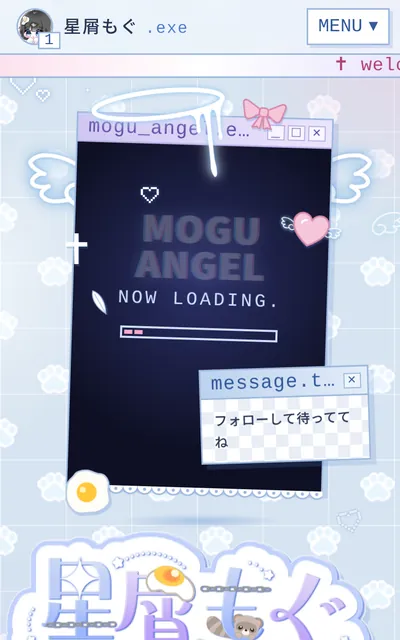
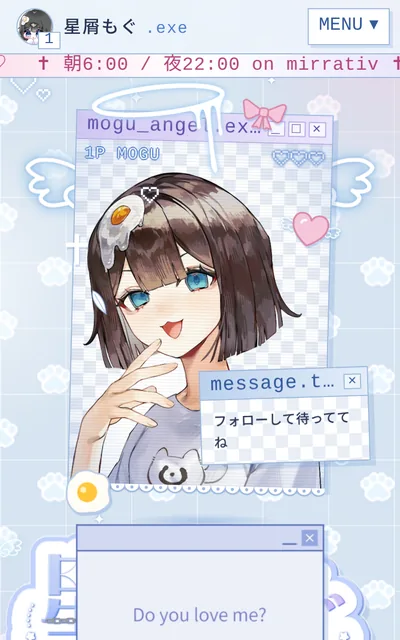
Use real site screens with characters visible in hero and cards
Claude-Session: https://claude.ai/code/session_01ErYMeAmKrCqXiEv6Jzs3We

diff --git a/index.html b/index.html
@@ -1,1 +1,1 @@
-<!doctype html><html lang="ja"><head><meta charset="utf-8"><meta name="viewport" content="width=device-width,initial-scale=1"><title>ファンが、いつでも会える場所を。 | イロハミント</title><meta name="description" content="作品紹介、メッセージ、歌リクエスト。配信者・歌い手・VTuberの活動とファンをつなぐホームページ制作。税込1,900円からの買い切りプラン。月額サポートは任意。"><meta name="theme-color" content="#315F53"><link rel="canonical" href="https://minatohiro-official.github.io/iroha-minto/"><meta property="og:type" content="website"><meta property="og:locale" content="ja_JP"><meta property="og:site_name" content="イロハミント"><meta property="og:title" content="ファンが、いつでも会える場所を。 | IROHA MINT"><meta property="og:description" content="作品紹介、メッセージ、歌リクエスト。配信者・歌い手・VTuberの活動とファンをつなぐホームページ制作。税込1,900円からの買い切りプラン。月額サポートは任意。"><meta property="og:url" content="https://minatohiro-official.github.io/iroha-minto/"><meta property="og:image" content="https://minatohiro-official.github.io/iroha-minto/assets/ogp.png"><meta property="og:image:width" content="1200"><meta property="og:image:height" content="630"><meta name="twitter:card" content="summary_large_image"><link rel="icon" href="assets/favicon.svg?v=5ed799cbb7" type="image/svg+xml"><link rel="icon" href="assets/favicon.ico?v=5ed799cbb7" sizes="any"><link rel="apple-touch-icon" href="assets/apple-touch-icon.png?v=5ed799cbb7"><link rel="stylesheet" href="assets/style.css?v=7fe357cccf"><script src="assets/app.js?v=20261111-allowances" defer></script><link rel="stylesheet" href="assets/home.css?v=f34d555bb5"></head><body class="home"><a class="skip" href="#main">本文へ移動</a><header class="header"><a class="brand" href="index.html" aria-label="イロハミント ホーム"><img src="assets/logo.svg" width="270" height="68" alt="イロハミント IROHA MINT"><span class="brand-service">ホームページ制作</span></a><button class="menu-button" type="button" aria-expanded="false" aria-controls="navigation">メニュー <span aria-hidden="true">＋</span></button><nav id="navigation" aria-label="メインナビゲーション"><a href="index.html" aria-current="page" >ホーム</a><a href="services.html" >料金・サービス</a><a href="works.html" >制作例</a><a href="contact.html" >相談・見積もり</a></nav></header><main id="main"><section class="hero"><div class="hero-copy"><p class="service-kicker">あなたの世界観を、オーダーメイドで。</p><h1>ファンが、いつでも<br>会える場所を。</h1><p class="hero-description">配信者・歌い手・VTuberの公式サイト制作。<br>色や雰囲気、載せたい内容から一緒に考えます。</p><div class="hero-showcase" role="img" aria-label="制作例。中央にしぃの部屋、左右に星屑もぐとあんて｡のスマホ画面"><div class="showcase-phone showcase-side showcase-left" aria-hidden="true"><img src="assets/hero-mogu.webp" width="400" height="640" alt="" decoding="async"><span class="showcase-phone-name">星屑もぐ</span></div><div class="showcase-phone" aria-hidden="true"><img src="assets/hero-shii.webp" width="400" height="640" alt="" fetchpriority="high" decoding="async"><span class="showcase-phone-name">しぃの部屋</span></div><div class="showcase-phone showcase-side showcase-right" aria-hidden="true"><img src="assets/hero-ante.webp" width="400" height="640" alt="" decoding="async"><span class="showcase-phone-name">あんて｡</span></div></div><div role="note" style="margin:18px 0;padding:18px 20px;border:2px solid #315f53;border-radius:16px;background:#f0f8f3;color:#234b40"><strong style="display:block;font-size:1.15rem">🎉 オープン記念価格をご案内</strong><span style="display:block;margin-top:6px">ライト 1,900円／スタンダード 4,900円／プレミアム 9,800円（税込・買い切り）</span><small style="display:block;margin-top:8px">通常価格は2,900円／7,900円／14,800円。記念価格の適用期間は正式受付時にご案内します。現在は受付準備中です。</small></div><div class="hero-actions"><a class="button primary" href="#home-plans">料金・プランを選ぶ</a><a class="button outline" href="#website-examples">制作例を見る</a></div><p class="hero-terms">管理アプリの無料特典つき。月額契約は任意です。</p></div></section><section class="section selected-works" id="website-examples"><div class="heading-row"><div class="section-heading reveal"><h2>制作したホームページ</h2><p>完成したホームページをご紹介します。ボタンから実際のホームページを開けます。</p></div></div><div class="work-grid"><article class="work-card reveal"><div class="work-image-link"><div class="work-phone"><img src="assets/phone-shii.webp" width="400" height="640" loading="lazy" decoding="async" alt="しぃの部屋の実際のトップページ。ピンクの背景にロゴとキャラクターイラストを配置。"></div></div><div class="work-card-body"><span class="eyebrow">配信者 / 公式サイト</span><h3>しぃの部屋</h3><p>ロゴとイラストを大きく配置したホームページです。配信予定、歌リクエスト、歌える曲リストなどを掲載しています。</p><ul class="work-tags"><li>ロゴ・キャラクター演出</li><li>歌える曲リスト</li><li>ファンとの交流</li></ul><a class="button primary" href="https://shii-room.github.io/" target="_blank" rel="noopener noreferrer">公開サイトを開く<span class="link-destination">別タブ</span></a><a class="case-explanation" href="works.html#shii">制作内容・スマホ表示の説明</a></div></article><article class="work-card reveal"><div class="work-image-link"><div class="work-phone"><img src="assets/phone-mogu.webp" width="400" height="640" loading="lazy" decoding="async" alt="星屑もぐの実際のトップページ。水色の背景にロゴとウィンドウ風のキャラクター枠を配置。"></div></div><div class="work-card-body"><span class="eyebrow">配信者 / 公式サイト</span><h3>星屑もぐ</h3><p>パソコンのウィンドウをイメージしたホームページです。プロフィール、配信情報、SNSへのリンクなどを掲載しています。</p><ul class="work-tags"><li>ウィンドウ風デザイン</li><li>プロフィールカード</li><li>配信・SNSへの導線</li></ul><a class="button primary" href="https://hoshikuzu-mogu.github.io/" target="_blank" rel="noopener noreferrer">公開サイトを開く<span class="link-destination">別タブ</span></a><a class="case-explanation" href="works.html#mogu">制作内容・スマホ表示の説明</a></div></article><article class="work-card reveal"><div class="work-image-link"><div class="work-phone"><img src="assets/phone-ante.webp" width="400" height="640" loading="lazy" decoding="async" alt="あんて｡の公式サイトの紹介画像"></div></div><div class="work-card-body"><span class="eyebrow">OFFICIAL STAGE</span><h3>あんて｡</h3><p>配信予定、歌える曲、リクエスト、歌ってみたをまとめた、あんて｡さんの公式サイトです。</p><a class="button primary" href="https://ante-stage.github.io/index.html" target="_blank" rel="noopener noreferrer">公開サイトを開く<span class="link-destination">別タブ</span></a><a class="case-explanation" href="works.html#ante">制作実績の紹介</a></div></article><article class="work-card reveal"><div class="work-image-link"><div class="work-phone"><img src="assets/phone-reeka.webp" width="400" height="640" loading="lazy" decoding="async" alt="偲睡れーかの公式サイトの紹介画像"></div></div><div class="work-card-body"><span class="eyebrow">研究ノート</span><h3>偲睡れーか</h3><p>「研究ノート」をテーマにした偲睡れーかさんの公式サイトです。</p><a class="button primary" href="https://shisui-reeka.github.io/index.html" target="_blank" rel="noopener noreferrer">公開サイトを開く<span class="link-destination">別タブ</span></a><a class="case-explanation" href="works.html#reeka">制作実績の紹介</a></div></article><article class="work-card reveal"><div class="work-image-link"><div class="work-phone"><img src="assets/phone-hiro.webp" width="400" height="640" loading="lazy" decoding="async" alt="湊音ヒロの実際のトップページ。青いライブ写真と名前を大きく配置。"></div></div><div class="work-card-body"><span class="eyebrow">歌い手・アーティスト / 公式サイト</span><h3>湊音ヒロ</h3><p>ライブ写真、プロフィール、楽曲・MV、ライブ情報をまとめたアーティストのホームページです。</p><ul class="work-tags"><li>ライブ写真</li><li>MV・楽曲の紹介</li><li>ファン向けの窓口</li></ul><a class="button primary" href="https://minatohiro-official.github.io/" target="_blank" rel="noopener noreferrer">公開サイトを開く<span class="link-destination">別タブ</span></a><a class="case-explanation" href="works.html#hiro">制作内容・スマホ表示の説明</a></div></article></div><p class="fine">掲載許可をいただいたサイトを紹介しています。画像は各サイトの紹介画像や制作時の画面です。各サイトの独自機能は、内容に応じて追加お見積もりとなります。</p></section><section class="section service-summary" aria-labelledby="service-title"><div class="section-heading"><h2 id="service-title">あなたの世界観に合わせて、<br>ひとつずつ作るホームページ。</h2><p>全プラン、デザインはオーダーメイド。好きな色や雰囲気、活動の内容を伺って、構成からご提案します。</p></div><div class="service-summary-grid"><article><span class="summary-number">01</span><h3>活動に合わせたデザイン</h3><p>プロフィールや作品をどう見せたいか、ファンに何を届けたいか。あなたの希望を伺い、色・文字・レイアウトを組み立てます。</p></article><article><span class="summary-number">02</span><h3>スマホ・iPad・PCに対応</h3><p>画面の大きさに合わせて、文字や画像、メニューの配置を調整します。iPadの縦持ち・横持ちにも対応できます。</p></article><article><span class="summary-number">03</span><h3>公開後の更新も相談できます</h3><p>自分で更新する管理画面や、任意の月額サポートも用意。必要な範囲を制作前に確認します。</p></article></div><p class="fine">イラストレーターの作品紹介、店舗・教室・個人事業のホームページもご相談いただけます。</p></section><section class="section brand-story" aria-labelledby="brand-story-title"><div class="section-heading"><h2 id="brand-story-title">イロハミントの想い</h2></div><p class="brand-message">あなたの好きな色や、大切にしている世界観。<br>その魅力が伝わるホームページを、一緒に作ります。</p></section><section class="section site-features" id="fan-features"><div class="section-heading"><h2>ファンとの交流に使える機能</h2><p>どんなやりとりをしたいかに合わせて、必要な機能を追加できます。</p></div><div class="site-feature-grid"><article class="site-feature"><div class="site-feature-image"><img src="assets/feature-message.webp" width="900" height="550" loading="lazy" decoding="async" alt="しぃの部屋のメッセージ受付の画面"></div><div class="site-feature-copy"><h3>メッセージ受付</h3><p>感想や質問を受け取る窓口。管理画面から、返信用の画像を作る機能も制作できます。</p><a class="button outline" href="works.html#feature-message">メッセージ機能の説明</a></div></article><article class="site-feature"><div class="site-feature-image"><img src="assets/feature-request.webp" width="900" height="479" loading="lazy" decoding="async" alt="しぃの部屋の歌リクエストの画面"></div><div class="site-feature-copy"><h3>歌リクエスト</h3><p>歌ってほしい曲を受け取るフォーム。曲名やアーティスト名、ひとことを送ってもらえます。</p><a class="button outline" href="works.html#feature-request">歌リクエスト機能の説明</a></div></article><article class="site-feature"><div class="site-feature-image"><img src="assets/feature-stamp.webp" width="445" height="479" loading="lazy" decoding="async" alt="しぃの部屋のスタンプ・特典壁紙の画面"></div><div class="site-feature-copy"><h3>スタンプ・特典壁紙</h3><p>サイトを訪れるとスタンプがたまり、達成時に壁紙を受け取れる機能です。</p><a class="button outline" href="works.html#feature-stamp">スタンプ・壁紙機能の説明</a></div></article></div><p class="fine">画面は「しぃの部屋」の公開実績です。基本の管理アプリは無料特典です。フォーム・スタンプなどの個別機能は別途お見積もり。受付方法や保存先、迷惑投稿への対策などを制作前に確認します。</p><div class="additional-features"><h3>曲リストや配信予定も載せられます</h3><div><a class="button outline" href="works.html#feature-song">歌える曲リストの説明</a><a class="button outline" href="sample-schedule.html">週間予定表の制作サンプル</a></div></div><div class="management-summary"><div><h3>管理アプリは無料特典です</h3><p>お知らせや配信予定の編集、届いたメッセージの確認など。ホームページと合わせて、必要な操作ができる管理Webアプリを制作します。</p><p class="fine">基本の管理アプリは、全プランの無料特典です。ご自身でお知らせや配信予定などを更新できます。編集できる項目は制作前に確認します。 個別の機能追加・カスタマイズ、外部サービスの実費は別途ご相談となります。月額サポートの契約は任意です。</p></div></div></section><section class="section plans-section" id="home-plans"><div class="section-heading reveal"><h2>制作料金</h2><p>制作費は買い切り。すべて税込、月額契約は任意です。</p></div><div class="plans"><article class="plan reveal "><span class="eyebrow">LIGHT</span><h3>ライト</h3><p class="plan-note">1ページのシンプルなサイト</p><p style="margin:8px 0 0;color:#64736b"><s>通常 ¥2,900</s> <strong>オープン記念価格</strong></p><p class="price"><span>¥</span>1,900<small>税込 / 買い切り</small></p><details class="plan-inclusions" open><summary>このプランに含まれる内容</summary><ul><li>1ページ / オーダーメイドデザイン</li><li>スマートフォン対応</li><li>基本SEO・OGP設定</li><li>無料ホスティングURL</li><li>標準的な歌える曲リスト対応（必要時）</li><li>基本の管理アプリ（無料特典）</li><li>初回修正3回</li><li>制作時の追加機能4種類まで無料（例：SNS連携・動画／音楽・ライブ予定・お問い合わせフォーム）</li></ul></details><a class="button outline" href="contact.html?plan=0#estimate">このプランで概算を計算する</a></article><article class="plan reveal featured"><span class="eyebrow">STANDARD</span><h3>スタンダード</h3><p class="plan-note">最大3ページ・スクロール演出</p><p style="margin:8px 0 0;color:#64736b"><s>通常 ¥7,900</s> <strong>オープン記念価格</strong></p><p class="price"><span>¥</span>4,900<small>税込 / 買い切り</small></p><details class="plan-inclusions" open><summary>このプランに含まれる内容</summary><ul><li>最大3ページ</li><li>オーダーメイドデザイン</li><li>スマートフォン対応</li><li>スクロール演出</li><li>基本の管理アプリ（無料特典）</li><li>初回修正5回</li><li>制作時の追加機能6種類まで無料</li></ul></details><a class="button primary" href="contact.html?plan=1#estimate">このプランで概算を計算する</a></article><article class="plan reveal "><span class="eyebrow">PREMIUM</span><h3>プレミアム</h3><p class="plan-note">最大10ページ・ファンがまた訪れたくなる特別なサイト</p><p style="margin:8px 0 0;color:#64736b"><s>通常 ¥14,800</s> <strong>オープン記念価格</strong></p><p class="price"><span>¥</span>9,800<small>税込 / 買い切り</small></p><details class="plan-inclusions" open><summary>このプランに含まれる内容</summary><ul><li>最大10ページ</li><li>オーダーメイドデザイン</li><li>オリジナルのオープニング演出</li><li>季節・イベント装飾の切り替え（用意したデザインから選択）</li><li>作品・楽曲を魅せる専用ページ（最大10ページの範囲内）</li><li>ファン向け特別機能1種類込み（対象の標準仕様から選択）</li><li>公開後30日間の軽微な調整サポート</li><li>スマートフォン対応</li><li>基本の管理アプリ（無料特典）</li><li>初回修正7回</li><li>追加機能無制限・公開後も永久無料</li></ul></details><a class="button outline" href="contact.html?plan=2#estimate">このプランで概算を計算する</a></article></div><p class="fine">記念価格の期間は正式受付時にご案内します。概算見積もりは記念価格で計算します。制作時の追加機能無料枠はライト4種類・スタンダード6種類・プレミアム無制限。ライト・スタンダードの標準機能は、制作時の無料枠超過分も公開後の追加も1種類500円（税込）です。プレミアムの標準機能は公開後も永久無料です。<br>上位プランへの変更は、既存制作物を再利用できる場合、差額対応を基本とします。詳細は個別にご確認ください。</p><a class="text-link" href="services.html">月額サポート・追加料金の一覧</a></section><section class="section flow"><div class="section-heading reveal"><h2>制作の流れ</h2></div><ol class="steps"><li class="reveal"><span>01</span><div><h3>プランを選んで概算を確認</h3><p>制作プランと追加機能を選ぶと、制作費の目安が分かります。</p></div></li><li class="reveal"><span>02</span><div><h3>XのDMで相談・金額確定</h3><p>概算をDMでお送りください。ご希望を伺い、制作内容・納期・最終金額をご案内します。</p></div></li><li class="reveal"><span>03</span><div><h3>Stripeでお支払い</h3><p>内容と金額に同意いただいた後、XのDMで専用の支払いリンクをご案内します。</p></div></li><li class="reveal"><span>04</span><div><h3>制作・確認・納品</h3><p>入金確認後に制作を始めます。完成したサイトをご確認いただき、更新方法とあわせてお渡しします。</p></div></li></ol><p class="fine">XのDMで事前相談を受け付けています。Stripeでのお支払いは正式受付開始後にご案内します。</p></section><section class="section faq"><div class="section-heading reveal"><h2>よくある質問</h2></div><div class="faq-list"><details><summary>iPadやタブレットにも対応できますか？<span aria-hidden="true">＋</span></summary><p>はい。スマホ・PCに加え、iPadなどタブレットの画面幅や縦持ち・横持ちに合わせて、文字・画像・メニューの配置を調整できます。対応端末や調整範囲は、制作内容に合わせて事前に確認します。</p></details><details><summary>月額料金は必ず必要ですか？<span aria-hidden="true">＋</span></summary><p>いいえ。制作費は買い切りで、月額サポートは任意です。サポートを契約しなくてもサイトを利用できます。独自ドメインなどの実費は別途かかる場合があります。</p></details><details><summary>何を用意したらいいですか？<span aria-hidden="true">＋</span></summary><p>掲載したい文章、写真、ロゴ、SNSリンクなどがあればご用意ください。何を載せるか決まっていない場合も、目的から整理できます。素材は利用権限のあるものを使用します。</p></details><details><summary>配信者以外でもお願いできますか？<span aria-hidden="true">＋</span></summary><p>はい。歌い手・VTuber・イラストレーターの方もご依頼いただけます。作品の掲載や制作依頼の案内など、ご希望に合わせて制作します。店舗・教室・個人事業のサイトもご相談ください。</p></details><details><summary>完成後に修正できますか？<span aria-hidden="true">＋</span></summary><p>初回修正はプランごとに3回・5回・7回。初回デザイン提出後30日以内を目安に受け付けます。制作者側の不具合は回数に含めず無償対応します。以降は単発更新や任意のサポートをご相談ください。</p></details><details><summary>歌える曲リストを載せられますか？<span aria-hidden="true">＋</span></summary><p>ライトプランには標準的な歌える曲リストへの対応を含みます。基本の管理アプリは無料特典です。独自検索・絞り込みや個別の管理機能は、必要な仕様に応じて追加お見積もりとなります。</p></details><details><summary>支払いはいつですか？<span aria-hidden="true">＋</span></summary><p>正式受付開始後、XのDMで制作内容と最終金額に同意いただいてから、Stripeの支払いリンクをお送りします。事前のご相談は現在も受け付けています。</p></details></div></section><section class="cta"><div><h2>制作を考えている方へ</h2><p>プランや追加機能を選んで、料金の目安を確認できます。<br>見積もりをコピーして、XのDMで相談できます。</p></div><a class="button light" href="contact.html#estimate">概算見積もりを計算する</a></section></main><footer><div class="footer-top"><a class="brand" href="index.html"><img src="assets/logo.svg" width="270" height="68" alt="イロハミント IROHA MINT"><span class="brand-service">ホームページ制作</span></a><p>配信者・歌い手・クリエイター向けホームページ制作</p></div><div class="footer-bottom"><span>© 2026 IROHA MINT</span><div><a href="contact.html#status">受付状況・ご利用案内</a><a href="privacy.html">プライバシーについて</a></div></div></footer></body></html>
+<!doctype html><html lang="ja"><head><meta charset="utf-8"><meta name="viewport" content="width=device-width,initial-scale=1"><title>ファンが、いつでも会える場所を。 | イロハミント</title><meta name="description" content="作品紹介、メッセージ、歌リクエスト。配信者・歌い手・VTuberの活動とファンをつなぐホームページ制作。税込1,900円からの買い切りプラン。月額サポートは任意。"><meta name="theme-color" content="#315F53"><link rel="canonical" href="https://minatohiro-official.github.io/iroha-minto/"><meta property="og:type" content="website"><meta property="og:locale" content="ja_JP"><meta property="og:site_name" content="イロハミント"><meta property="og:title" content="ファンが、いつでも会える場所を。 | IROHA MINT"><meta property="og:description" content="作品紹介、メッセージ、歌リクエスト。配信者・歌い手・VTuberの活動とファンをつなぐホームページ制作。税込1,900円からの買い切りプラン。月額サポートは任意。"><meta property="og:url" content="https://minatohiro-official.github.io/iroha-minto/"><meta property="og:image" content="https://minatohiro-official.github.io/iroha-minto/assets/ogp.png"><meta property="og:image:width" content="1200"><meta property="og:image:height" content="630"><meta name="twitter:card" content="summary_large_image"><link rel="icon" href="assets/favicon.svg?v=5ed799cbb7" type="image/svg+xml"><link rel="icon" href="assets/favicon.ico?v=5ed799cbb7" sizes="any"><link rel="apple-touch-icon" href="assets/apple-touch-icon.png?v=5ed799cbb7"><link rel="stylesheet" href="assets/style.css?v=7fe357cccf"><script src="assets/app.js?v=20261111-allowances" defer></script><link rel="stylesheet" href="assets/home.css?v=f34d555bb5"></head><body class="home"><a class="skip" href="#main">本文へ移動</a><header class="header"><a class="brand" href="index.html" aria-label="イロハミント ホーム"><img src="assets/logo.svg" width="270" height="68" alt="イロハミント IROHA MINT"><span class="brand-service">ホームページ制作</span></a><button class="menu-button" type="button" aria-expanded="false" aria-controls="navigation">メニュー <span aria-hidden="true">＋</span></button><nav id="navigation" aria-label="メインナビゲーション"><a href="index.html" aria-current="page" >ホーム</a><a href="services.html" >料金・サービス</a><a href="works.html" >制作例</a><a href="contact.html" >相談・見積もり</a></nav></header><main id="main"><section class="hero"><div class="hero-copy"><p class="service-kicker">あなたの世界観を、オーダーメイドで。</p><h1>ファンが、いつでも<br>会える場所を。</h1><p class="hero-description">配信者・歌い手・VTuberの公式サイト制作。<br>色や雰囲気、載せたい内容から一緒に考えます。</p><div class="hero-showcase" role="img" aria-label="制作例。中央にしぃの部屋、左右に星屑もぐとあんて｡のスマホ画面"><div class="showcase-phone showcase-side showcase-left" aria-hidden="true"><img src="assets/phone-mogu.webp" width="400" height="640" alt="" decoding="async"><span class="showcase-phone-name">星屑もぐ</span></div><div class="showcase-phone" aria-hidden="true"><img src="assets/phone-shii.webp" width="400" height="640" alt="" fetchpriority="high" decoding="async"><span class="showcase-phone-name">しぃの部屋</span></div><div class="showcase-phone showcase-side showcase-right" aria-hidden="true"><img src="assets/phone-ante.webp" width="400" height="640" alt="" decoding="async"><span class="showcase-phone-name">あんて｡</span></div></div><div role="note" style="margin:18px 0;padding:18px 20px;border:2px solid #315f53;border-radius:16px;background:#f0f8f3;color:#234b40"><strong style="display:block;font-size:1.15rem">🎉 オープン記念価格をご案内</strong><span style="display:block;margin-top:6px">ライト 1,900円／スタンダード 4,900円／プレミアム 9,800円（税込・買い切り）</span><small style="display:block;margin-top:8px">通常価格は2,900円／7,900円／14,800円。記念価格の適用期間は正式受付時にご案内します。現在は受付準備中です。</small></div><div class="hero-actions"><a class="button primary" href="#home-plans">料金・プランを選ぶ</a><a class="button outline" href="#website-examples">制作例を見る</a></div><p class="hero-terms">管理アプリの無料特典つき。月額契約は任意です。</p></div></section><section class="section selected-works" id="website-examples"><div class="heading-row"><div class="section-heading reveal"><h2>制作したホームページ</h2><p>完成したホームページをご紹介します。ボタンから実際のホームページを開けます。</p></div></div><div class="work-grid"><article class="work-card reveal"><div class="work-image-link"><div class="work-phone"><img src="assets/phone-shii.webp" width="400" height="640" loading="lazy" decoding="async" alt="しぃの部屋の実際のトップページ。ピンクの背景にロゴとキャラクターイラストを配置。"></div></div><div class="work-card-body"><span class="eyebrow">配信者 / 公式サイト</span><h3>しぃの部屋</h3><p>ロゴとイラストを大きく配置したホームページです。配信予定、歌リクエスト、歌える曲リストなどを掲載しています。</p><ul class="work-tags"><li>ロゴ・キャラクター演出</li><li>歌える曲リスト</li><li>ファンとの交流</li></ul><a class="button primary" href="https://shii-room.github.io/" target="_blank" rel="noopener noreferrer">公開サイトを開く<span class="link-destination">別タブ</span></a><a class="case-explanation" href="works.html#shii">制作内容・スマホ表示の説明</a></div></article><article class="work-card reveal"><div class="work-image-link"><div class="work-phone"><img src="assets/phone-mogu.webp" width="400" height="640" loading="lazy" decoding="async" alt="星屑もぐの実際のトップページ。水色の背景にロゴとウィンドウ風のキャラクター枠を配置。"></div></div><div class="work-card-body"><span class="eyebrow">配信者 / 公式サイト</span><h3>星屑もぐ</h3><p>パソコンのウィンドウをイメージしたホームページです。プロフィール、配信情報、SNSへのリンクなどを掲載しています。</p><ul class="work-tags"><li>ウィンドウ風デザイン</li><li>プロフィールカード</li><li>配信・SNSへの導線</li></ul><a class="button primary" href="https://hoshikuzu-mogu.github.io/" target="_blank" rel="noopener noreferrer">公開サイトを開く<span class="link-destination">別タブ</span></a><a class="case-explanation" href="works.html#mogu">制作内容・スマホ表示の説明</a></div></article><article class="work-card reveal"><div class="work-image-link"><div class="work-phone"><img src="assets/phone-ante.webp" width="400" height="640" loading="lazy" decoding="async" alt="あんて｡の公式サイトの紹介画像"></div></div><div class="work-card-body"><span class="eyebrow">OFFICIAL STAGE</span><h3>あんて｡</h3><p>配信予定、歌える曲、リクエスト、歌ってみたをまとめた、あんて｡さんの公式サイトです。</p><a class="button primary" href="https://ante-stage.github.io/index.html" target="_blank" rel="noopener noreferrer">公開サイトを開く<span class="link-destination">別タブ</span></a><a class="case-explanation" href="works.html#ante">制作実績の紹介</a></div></article><article class="work-card reveal"><div class="work-image-link"><div class="work-phone"><img src="assets/phone-reeka.webp" width="400" height="640" loading="lazy" decoding="async" alt="偲睡れーかの公式サイトの紹介画像"></div></div><div class="work-card-body"><span class="eyebrow">研究ノート</span><h3>偲睡れーか</h3><p>「研究ノート」をテーマにした偲睡れーかさんの公式サイトです。</p><a class="button primary" href="https://shisui-reeka.github.io/index.html" target="_blank" rel="noopener noreferrer">公開サイトを開く<span class="link-destination">別タブ</span></a><a class="case-explanation" href="works.html#reeka">制作実績の紹介</a></div></article><article class="work-card reveal"><div class="work-image-link"><div class="work-phone"><img src="assets/phone-hiro.webp" width="400" height="640" loading="lazy" decoding="async" alt="湊音ヒロの実際のトップページ。青いライブ写真と名前を大きく配置。"></div></div><div class="work-card-body"><span class="eyebrow">歌い手・アーティスト / 公式サイト</span><h3>湊音ヒロ</h3><p>ライブ写真、プロフィール、楽曲・MV、ライブ情報をまとめたアーティストのホームページです。</p><ul class="work-tags"><li>ライブ写真</li><li>MV・楽曲の紹介</li><li>ファン向けの窓口</li></ul><a class="button primary" href="https://minatohiro-official.github.io/" target="_blank" rel="noopener noreferrer">公開サイトを開く<span class="link-destination">別タブ</span></a><a class="case-explanation" href="works.html#hiro">制作内容・スマホ表示の説明</a></div></article></div><p class="fine">掲載許可をいただいたサイトを紹介しています。画像は各サイトの紹介画像や制作時の画面です。各サイトの独自機能は、内容に応じて追加お見積もりとなります。</p></section><section class="section service-summary" aria-labelledby="service-title"><div class="section-heading"><h2 id="service-title">あなたの世界観に合わせて、<br>ひとつずつ作るホームページ。</h2><p>全プラン、デザインはオーダーメイド。好きな色や雰囲気、活動の内容を伺って、構成からご提案します。</p></div><div class="service-summary-grid"><article><span class="summary-number">01</span><h3>活動に合わせたデザイン</h3><p>プロフィールや作品をどう見せたいか、ファンに何を届けたいか。あなたの希望を伺い、色・文字・レイアウトを組み立てます。</p></article><article><span class="summary-number">02</span><h3>スマホ・iPad・PCに対応</h3><p>画面の大きさに合わせて、文字や画像、メニューの配置を調整します。iPadの縦持ち・横持ちにも対応できます。</p></article><article><span class="summary-number">03</span><h3>公開後の更新も相談できます</h3><p>自分で更新する管理画面や、任意の月額サポートも用意。必要な範囲を制作前に確認します。</p></article></div><p class="fine">イラストレーターの作品紹介、店舗・教室・個人事業のホームページもご相談いただけます。</p></section><section class="section brand-story" aria-labelledby="brand-story-title"><div class="section-heading"><h2 id="brand-story-title">イロハミントの想い</h2></div><p class="brand-message">あなたの好きな色や、大切にしている世界観。<br>その魅力が伝わるホームページを、一緒に作ります。</p></section><section class="section site-features" id="fan-features"><div class="section-heading"><h2>ファンとの交流に使える機能</h2><p>どんなやりとりをしたいかに合わせて、必要な機能を追加できます。</p></div><div class="site-feature-grid"><article class="site-feature"><div class="site-feature-image"><img src="assets/feature-message.webp" width="900" height="550" loading="lazy" decoding="async" alt="しぃの部屋のメッセージ受付の画面"></div><div class="site-feature-copy"><h3>メッセージ受付</h3><p>感想や質問を受け取る窓口。管理画面から、返信用の画像を作る機能も制作できます。</p><a class="button outline" href="works.html#feature-message">メッセージ機能の説明</a></div></article><article class="site-feature"><div class="site-feature-image"><img src="assets/feature-request.webp" width="900" height="479" loading="lazy" decoding="async" alt="しぃの部屋の歌リクエストの画面"></div><div class="site-feature-copy"><h3>歌リクエスト</h3><p>歌ってほしい曲を受け取るフォーム。曲名やアーティスト名、ひとことを送ってもらえます。</p><a class="button outline" href="works.html#feature-request">歌リクエスト機能の説明</a></div></article><article class="site-feature"><div class="site-feature-image"><img src="assets/feature-stamp.webp" width="445" height="479" loading="lazy" decoding="async" alt="しぃの部屋のスタンプ・特典壁紙の画面"></div><div class="site-feature-copy"><h3>スタンプ・特典壁紙</h3><p>サイトを訪れるとスタンプがたまり、達成時に壁紙を受け取れる機能です。</p><a class="button outline" href="works.html#feature-stamp">スタンプ・壁紙機能の説明</a></div></article></div><p class="fine">画面は「しぃの部屋」の公開実績です。基本の管理アプリは無料特典です。フォーム・スタンプなどの個別機能は別途お見積もり。受付方法や保存先、迷惑投稿への対策などを制作前に確認します。</p><div class="additional-features"><h3>曲リストや配信予定も載せられます</h3><div><a class="button outline" href="works.html#feature-song">歌える曲リストの説明</a><a class="button outline" href="sample-schedule.html">週間予定表の制作サンプル</a></div></div><div class="management-summary"><div><h3>管理アプリは無料特典です</h3><p>お知らせや配信予定の編集、届いたメッセージの確認など。ホームページと合わせて、必要な操作ができる管理Webアプリを制作します。</p><p class="fine">基本の管理アプリは、全プランの無料特典です。ご自身でお知らせや配信予定などを更新できます。編集できる項目は制作前に確認します。 個別の機能追加・カスタマイズ、外部サービスの実費は別途ご相談となります。月額サポートの契約は任意です。</p></div></div></section><section class="section plans-section" id="home-plans"><div class="section-heading reveal"><h2>制作料金</h2><p>制作費は買い切り。すべて税込、月額契約は任意です。</p></div><div class="plans"><article class="plan reveal "><span class="eyebrow">LIGHT</span><h3>ライト</h3><p class="plan-note">1ページのシンプルなサイト</p><p style="margin:8px 0 0;color:#64736b"><s>通常 ¥2,900</s> <strong>オープン記念価格</strong></p><p class="price"><span>¥</span>1,900<small>税込 / 買い切り</small></p><details class="plan-inclusions" open><summary>このプランに含まれる内容</summary><ul><li>1ページ / オーダーメイドデザイン</li><li>スマートフォン対応</li><li>基本SEO・OGP設定</li><li>無料ホスティングURL</li><li>標準的な歌える曲リスト対応（必要時）</li><li>基本の管理アプリ（無料特典）</li><li>初回修正3回</li><li>制作時の追加機能4種類まで無料（例：SNS連携・動画／音楽・ライブ予定・お問い合わせフォーム）</li></ul></details><a class="button outline" href="contact.html?plan=0#estimate">このプランで概算を計算する</a></article><article class="plan reveal featured"><span class="eyebrow">STANDARD</span><h3>スタンダード</h3><p class="plan-note">最大3ページ・スクロール演出</p><p style="margin:8px 0 0;color:#64736b"><s>通常 ¥7,900</s> <strong>オープン記念価格</strong></p><p class="price"><span>¥</span>4,900<small>税込 / 買い切り</small></p><details class="plan-inclusions" open><summary>このプランに含まれる内容</summary><ul><li>最大3ページ</li><li>オーダーメイドデザイン</li><li>スマートフォン対応</li><li>スクロール演出</li><li>基本の管理アプリ（無料特典）</li><li>初回修正5回</li><li>制作時の追加機能6種類まで無料</li></ul></details><a class="button primary" href="contact.html?plan=1#estimate">このプランで概算を計算する</a></article><article class="plan reveal "><span class="eyebrow">PREMIUM</span><h3>プレミアム</h3><p class="plan-note">最大10ページ・ファンがまた訪れたくなる特別なサイト</p><p style="margin:8px 0 0;color:#64736b"><s>通常 ¥14,800</s> <strong>オープン記念価格</strong></p><p class="price"><span>¥</span>9,800<small>税込 / 買い切り</small></p><details class="plan-inclusions" open><summary>このプランに含まれる内容</summary><ul><li>最大10ページ</li><li>オーダーメイドデザイン</li><li>オリジナルのオープニング演出</li><li>季節・イベント装飾の切り替え（用意したデザインから選択）</li><li>作品・楽曲を魅せる専用ページ（最大10ページの範囲内）</li><li>ファン向け特別機能1種類込み（対象の標準仕様から選択）</li><li>公開後30日間の軽微な調整サポート</li><li>スマートフォン対応</li><li>基本の管理アプリ（無料特典）</li><li>初回修正7回</li><li>追加機能無制限・公開後も永久無料</li></ul></details><a class="button outline" href="contact.html?plan=2#estimate">このプランで概算を計算する</a></article></div><p class="fine">記念価格の期間は正式受付時にご案内します。概算見積もりは記念価格で計算します。制作時の追加機能無料枠はライト4種類・スタンダード6種類・プレミアム無制限。ライト・スタンダードの標準機能は、制作時の無料枠超過分も公開後の追加も1種類500円（税込）です。プレミアムの標準機能は公開後も永久無料です。<br>上位プランへの変更は、既存制作物を再利用できる場合、差額対応を基本とします。詳細は個別にご確認ください。</p><a class="text-link" href="services.html">月額サポート・追加料金の一覧</a></section><section class="section flow"><div class="section-heading reveal"><h2>制作の流れ</h2></div><ol class="steps"><li class="reveal"><span>01</span><div><h3>プランを選んで概算を確認</h3><p>制作プランと追加機能を選ぶと、制作費の目安が分かります。</p></div></li><li class="reveal"><span>02</span><div><h3>XのDMで相談・金額確定</h3><p>概算をDMでお送りください。ご希望を伺い、制作内容・納期・最終金額をご案内します。</p></div></li><li class="reveal"><span>03</span><div><h3>Stripeでお支払い</h3><p>内容と金額に同意いただいた後、XのDMで専用の支払いリンクをご案内します。</p></div></li><li class="reveal"><span>04</span><div><h3>制作・確認・納品</h3><p>入金確認後に制作を始めます。完成したサイトをご確認いただき、更新方法とあわせてお渡しします。</p></div></li></ol><p class="fine">XのDMで事前相談を受け付けています。Stripeでのお支払いは正式受付開始後にご案内します。</p></section><section class="section faq"><div class="section-heading reveal"><h2>よくある質問</h2></div><div class="faq-list"><details><summary>iPadやタブレットにも対応できますか？<span aria-hidden="true">＋</span></summary><p>はい。スマホ・PCに加え、iPadなどタブレットの画面幅や縦持ち・横持ちに合わせて、文字・画像・メニューの配置を調整できます。対応端末や調整範囲は、制作内容に合わせて事前に確認します。</p></details><details><summary>月額料金は必ず必要ですか？<span aria-hidden="true">＋</span></summary><p>いいえ。制作費は買い切りで、月額サポートは任意です。サポートを契約しなくてもサイトを利用できます。独自ドメインなどの実費は別途かかる場合があります。</p></details><details><summary>何を用意したらいいですか？<span aria-hidden="true">＋</span></summary><p>掲載したい文章、写真、ロゴ、SNSリンクなどがあればご用意ください。何を載せるか決まっていない場合も、目的から整理できます。素材は利用権限のあるものを使用します。</p></details><details><summary>配信者以外でもお願いできますか？<span aria-hidden="true">＋</span></summary><p>はい。歌い手・VTuber・イラストレーターの方もご依頼いただけます。作品の掲載や制作依頼の案内など、ご希望に合わせて制作します。店舗・教室・個人事業のサイトもご相談ください。</p></details><details><summary>完成後に修正できますか？<span aria-hidden="true">＋</span></summary><p>初回修正はプランごとに3回・5回・7回。初回デザイン提出後30日以内を目安に受け付けます。制作者側の不具合は回数に含めず無償対応します。以降は単発更新や任意のサポートをご相談ください。</p></details><details><summary>歌える曲リストを載せられますか？<span aria-hidden="true">＋</span></summary><p>ライトプランには標準的な歌える曲リストへの対応を含みます。基本の管理アプリは無料特典です。独自検索・絞り込みや個別の管理機能は、必要な仕様に応じて追加お見積もりとなります。</p></details><details><summary>支払いはいつですか？<span aria-hidden="true">＋</span></summary><p>正式受付開始後、XのDMで制作内容と最終金額に同意いただいてから、Stripeの支払いリンクをお送りします。事前のご相談は現在も受け付けています。</p></details></div></section><section class="cta"><div><h2>制作を考えている方へ</h2><p>プランや追加機能を選んで、料金の目安を確認できます。<br>見積もりをコピーして、XのDMで相談できます。</p></div><a class="button light" href="contact.html#estimate">概算見積もりを計算する</a></section></main><footer><div class="footer-top"><a class="brand" href="index.html"><img src="assets/logo.svg" width="270" height="68" alt="イロハミント IROHA MINT"><span class="brand-service">ホームページ制作</span></a><p>配信者・歌い手・クリエイター向けホームページ制作</p></div><div class="footer-bottom"><span>© 2026 IROHA MINT</span><div><a href="contact.html#status">受付状況・ご利用案内</a><a href="privacy.html">プライバシーについて</a></div></div></footer></body></html>
